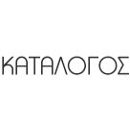
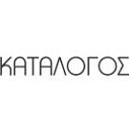
Center catalog's stemfyla title with content title

Changed region(s): [[0.0, 0.4308, 1.0, 0.5846]]

diff --git a/public/partials/catalog.html b/public/partials/catalog.html
@@ -94,9 +94,8 @@
                                     <li><img data-src="app/img/catalog/pages/cover-empty.jpg"></li>
                                 </ul>
                                 <ul>
-                                    <li><img data-src="app/img/catalog/pages/cover-empty.jpg"></li>
-                                    <li><a href="javascript:setPage(4)"><img
-                                            data-src="app/img/catalog/pages/cover-catalog.jpg"></a></li>
+                                    <li><img data-src="app/img/catalog/pages/cover-empty-less.jpg"></li>
+                                    <li id="catalog-title"><img data-src="app/img/catalog/pages/cover-catalog.jpg"></li>
                                     <li><img data-src="app/img/catalog/pages/cover-empty.jpg"></li>
                                     <li><a href="javascript:setPage(2)"><img
                                             data-src="app/img/catalog/pages/cover-coffee.jpg"></a></li>

diff --git a/public/app/css/main.css b/public/app/css/main.css
@@ -150,6 +150,10 @@ legend {
     border-bottom: 1px solid #5F021F;
 }
 
-h3{
+h3 {
     font-weight: 600;
+}
+
+#catalog-title {
+    margin-left: 8px !important;
 }
